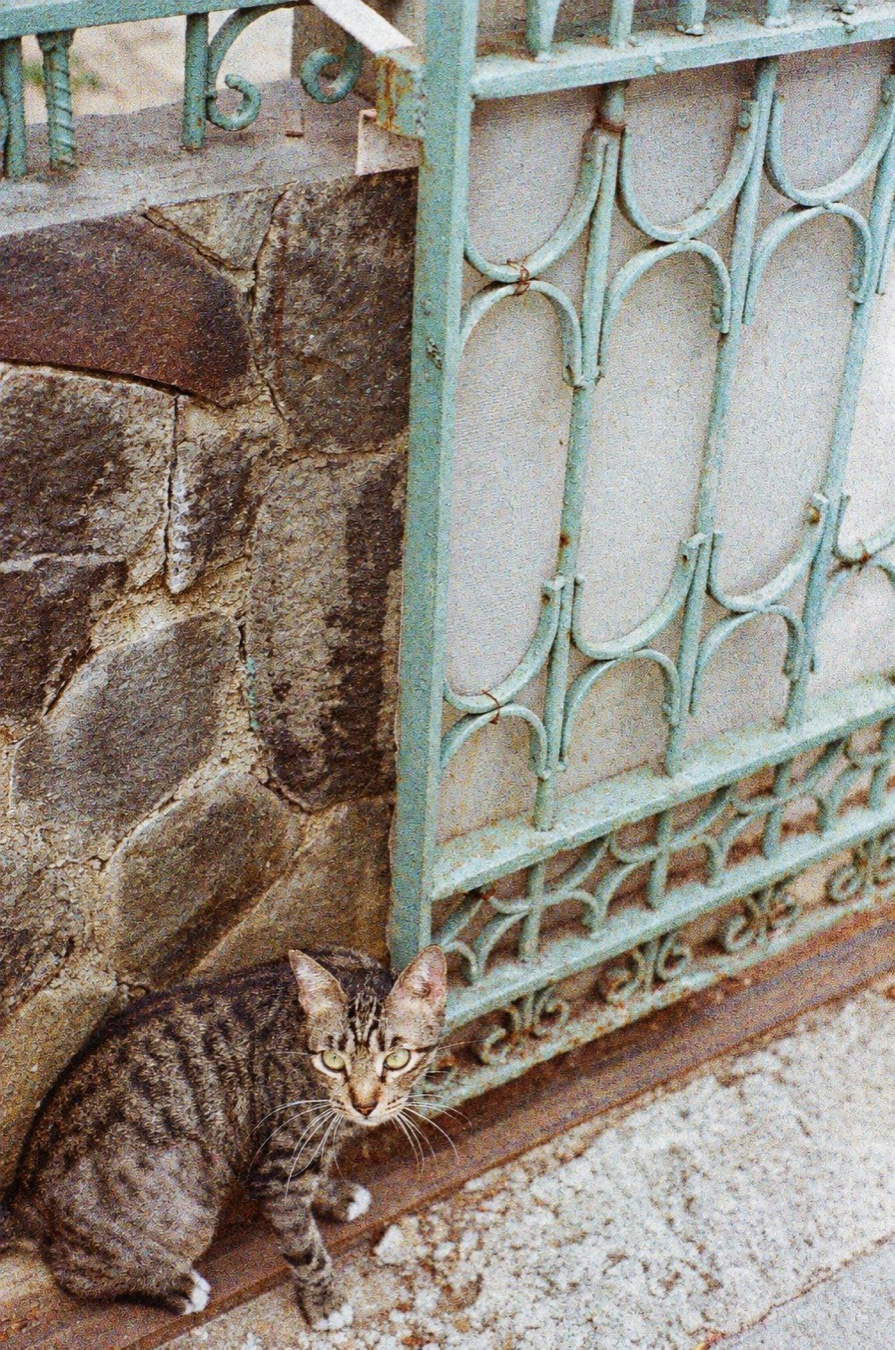
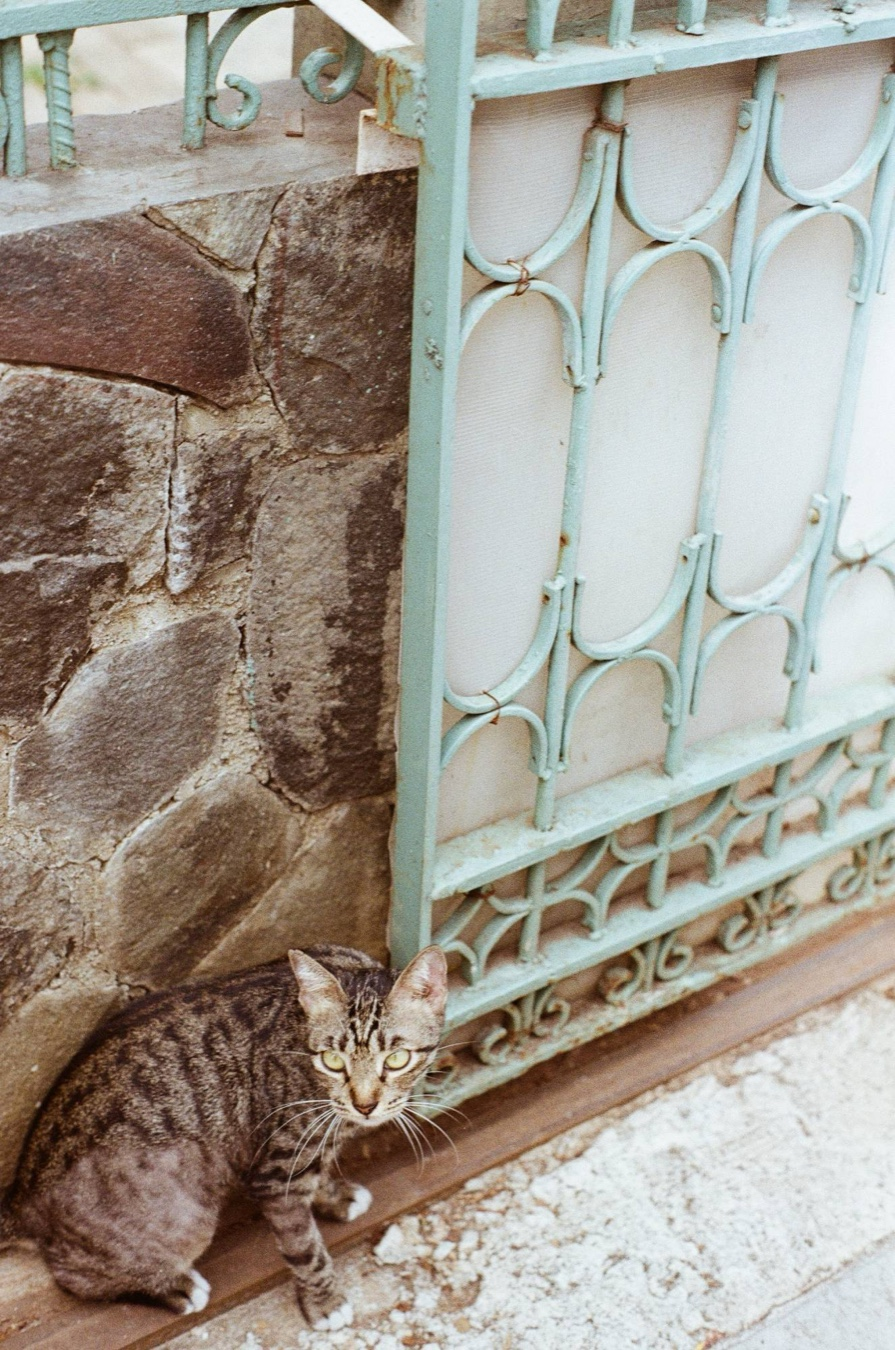
Replace cat photo with cleaner scan

diff --git a/index.html b/index.html
@@ -15,7 +15,7 @@
 <!-- GALLERY START: edit each image alt/data-caption if you want descriptions -->
 <div class="gallery"><div class="gallery-row landscape-row"><button class="photo-card" type="button" aria-label="Open photo 1" onclick="openLightbox(this)"><img loading="lazy" src="assets/gallery/photo-23.jpg" alt="Travel photograph 1" data-name="000009270031 copy.jpeg" data-caption="000009270031 copy.jpeg"></button><button class="photo-card" type="button" aria-label="Open photo 2" onclick="openLightbox(this)"><img loading="lazy" src="assets/gallery/photo-15.jpg" alt="Travel photograph 2" data-name="camels copy.jpeg" data-caption="camels copy.jpeg"></button><button class="photo-card" type="button" aria-label="Open photo 3" onclick="openLightbox(this)"><img loading="lazy" src="assets/gallery/photo-12.jpg" alt="Travel photograph 3" data-name="friends copy.jpeg" data-caption="friends copy.jpeg"></button><button class="photo-card" type="button" aria-label="Open photo 4" onclick="openLightbox(this)"><img loading="lazy" src="assets/gallery/photo-16.jpg" alt="Travel photograph 4" data-name="camels_sit copy.jpeg" data-caption="camels_sit copy.jpeg"></button></div>
 <div class="gallery-row landscape-row"><button class="photo-card" type="button" aria-label="Open photo 5" onclick="openLightbox(this)"><img loading="lazy" src="assets/gallery/photo-63.jpg" alt="Travel photograph 5" data-name="tiled_roof_street.jpg" data-caption="tiled_roof_street.jpg"></button><button class="photo-card" type="button" aria-label="Open photo 6" onclick="openLightbox(this)"><img loading="lazy" src="assets/gallery/photo-14.jpg" alt="Travel photograph 6" data-name="IMG_2668.jpeg" data-caption="IMG_2668.jpeg"></button><button class="photo-card" type="button" aria-label="Open photo 7" onclick="openLightbox(this)"><img loading="lazy" src="assets/gallery/photo-52.jpg?v=2" alt="Travel photograph 7" data-name="000009250011 copy.jpeg" data-caption="000009250011 copy.jpeg"></button><button class="photo-card" type="button" aria-label="Open photo 8" onclick="openLightbox(this)"><img loading="lazy" src="assets/gallery/photo-64.jpg" alt="Travel photograph 8" data-name="rickshaw.jpg" data-caption="rickshaw.jpg"></button></div>
-<div class="gallery-row portrait-row"><button class="photo-card" type="button" aria-label="Open photo 9" onclick="openLightbox(this)"><img loading="lazy" src="assets/gallery/photo-31.jpg" alt="Travel photograph 9" data-name="vines_morocco copy(1).jpeg" data-caption="vines_morocco copy(1).jpeg"></button><button class="photo-card" type="button" aria-label="Open photo 10" onclick="openLightbox(this)"><img loading="lazy" src="assets/gallery/photo-67.jpg" alt="Travel photograph 10" data-name="cat_gate.jpg" data-caption="cat_gate.jpg"></button><button class="photo-card" type="button" aria-label="Open photo 11" onclick="openLightbox(this)"><img loading="lazy" src="assets/gallery/photo-45.jpg" alt="Travel photograph 11" data-name="000009250019 copy.jpeg" data-caption="000009250019 copy.jpeg"></button><button class="photo-card" type="button" aria-label="Open photo 12" onclick="openLightbox(this)"><img loading="lazy" src="assets/gallery/photo-30.jpg" alt="Travel photograph 12" data-name="orange_building copy.jpeg" data-caption="orange_building copy.jpeg"></button><button class="photo-card" type="button" aria-label="Open photo 13" onclick="openLightbox(this)"><img loading="lazy" src="assets/gallery/photo-58.jpg" alt="Travel photograph 13" data-name="000009250017 copy.jpeg" data-caption="000009250017 copy.jpeg"></button></div>
+<div class="gallery-row portrait-row"><button class="photo-card" type="button" aria-label="Open photo 9" onclick="openLightbox(this)"><img loading="lazy" src="assets/gallery/photo-31.jpg" alt="Travel photograph 9" data-name="vines_morocco copy(1).jpeg" data-caption="vines_morocco copy(1).jpeg"></button><button class="photo-card" type="button" aria-label="Open photo 10" onclick="openLightbox(this)"><img loading="lazy" src="assets/gallery/photo-67.jpg?v=2" alt="Travel photograph 10" data-name="cat_gate.jpg" data-caption="cat_gate.jpg"></button><button class="photo-card" type="button" aria-label="Open photo 11" onclick="openLightbox(this)"><img loading="lazy" src="assets/gallery/photo-45.jpg" alt="Travel photograph 11" data-name="000009250019 copy.jpeg" data-caption="000009250019 copy.jpeg"></button><button class="photo-card" type="button" aria-label="Open photo 12" onclick="openLightbox(this)"><img loading="lazy" src="assets/gallery/photo-30.jpg" alt="Travel photograph 12" data-name="orange_building copy.jpeg" data-caption="orange_building copy.jpeg"></button><button class="photo-card" type="button" aria-label="Open photo 13" onclick="openLightbox(this)"><img loading="lazy" src="assets/gallery/photo-58.jpg" alt="Travel photograph 13" data-name="000009250017 copy.jpeg" data-caption="000009250017 copy.jpeg"></button></div>
 <div class="gallery-row landscape-row"><button class="photo-card" type="button" aria-label="Open photo 14" onclick="openLightbox(this)"><img loading="lazy" src="assets/gallery/photo-44.jpg" alt="Travel photograph 14" data-name="000009250035 copy.jpeg" data-caption="000009250035 copy.jpeg"></button><button class="photo-card" type="button" aria-label="Open photo 15" onclick="openLightbox(this)"><img loading="lazy" src="assets/gallery/photo-02.jpg" alt="Travel photograph 15" data-name="rocky_hill copy.jpeg" data-caption="rocky_hill copy.jpeg"></button><button class="photo-card" type="button" aria-label="Open photo 16" onclick="openLightbox(this)"><img loading="lazy" src="assets/gallery/photo-09.jpg" alt="Travel photograph 16" data-name="ceiling copy.jpeg" data-caption="ceiling copy.jpeg"></button><button class="photo-card" type="button" aria-label="Open photo 17" onclick="openLightbox(this)"><img loading="lazy" src="assets/gallery/photo-61.jpg" alt="Travel photograph 17" data-name="000003970022 copy.jpeg" data-caption="000003970022 copy.jpeg"></button></div>
 <div class="gallery-row landscape-row"><button class="photo-card" type="button" aria-label="Open photo 18" onclick="openLightbox(this)"><img loading="lazy" src="assets/gallery/photo-51.jpg" alt="Travel photograph 18" data-name="000009250003 copy.jpeg" data-caption="000009250003 copy.jpeg"></button><button class="photo-card" type="button" aria-label="Open photo 19" onclick="openLightbox(this)"><img loading="lazy" src="assets/gallery/photo-11.jpg" alt="Travel photograph 19" data-name="entrance copy.jpeg" data-caption="entrance copy.jpeg"></button><button class="photo-card" type="button" aria-label="Open photo 20" onclick="openLightbox(this)"><img loading="lazy" src="assets/gallery/photo-62.jpg" alt="Travel photograph 20" data-name="000003970032 copy.jpeg" data-caption="000003970032 copy.jpeg"></button><button class="photo-card" type="button" aria-label="Open photo 21" onclick="openLightbox(this)"><img loading="lazy" src="assets/gallery/photo-60.jpg" alt="Travel photograph 21" data-name="000003970010 copy.jpeg" data-caption="000003970010 copy.jpeg"></button></div>
 <div class="gallery-row landscape-row"><button class="photo-card" type="button" aria-label="Open photo 22" onclick="openLightbox(this)"><img loading="lazy" src="assets/gallery/photo-17.jpg" alt="Travel photograph 22" data-name="F4230002.jpeg" data-caption="F4230002.jpeg"></button><button class="photo-card" type="button" aria-label="Open photo 23" onclick="openLightbox(this)"><img loading="lazy" src="assets/gallery/photo-25.jpg" alt="Travel photograph 23" data-name="000009270001 copy.jpg" data-caption="000009270001 copy.jpg"></button><button class="photo-card" type="button" aria-label="Open photo 24" onclick="openLightbox(this)"><img loading="lazy" src="assets/gallery/photo-32.jpg" alt="Travel photograph 24" data-name="000009260020 copy.jpeg" data-caption="000009260020 copy.jpeg"></button><button class="photo-card" type="button" aria-label="Open photo 25" onclick="openLightbox(this)"><img loading="lazy" src="assets/gallery/photo-03.jpg" alt="Travel photograph 25" data-name="tiles copy.jpeg" data-caption="tiles copy.jpeg"></button></div>
